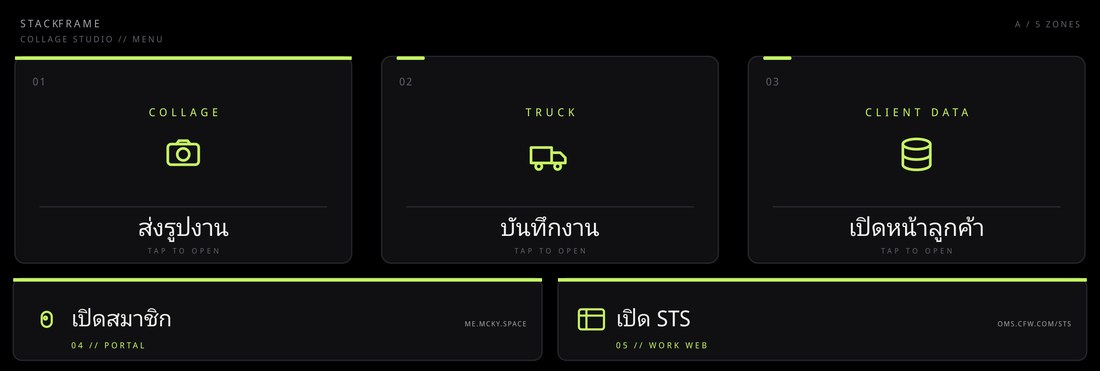
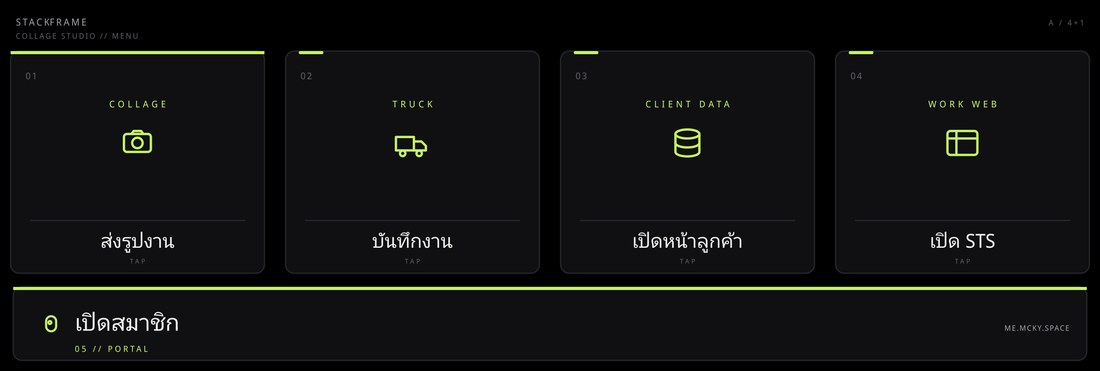
feat(richmenu): layout 4 top buttons + 1 full-width bottom bar
Top row: ส่งรูปงาน (LIFF) · บันทึกงาน (truck) · เปิดหน้าลูกค้า (data) ·
เปิด STS (oms.cfwenterprise.com/sts). Bottom full-width bar: เปิดสมาชิก
(me.mcky.space). Black backgrounds everywhere; redeployed STUDIO 03.

diff --git a/frontend/previews/richmenu/index.html b/frontend/previews/richmenu/index.html
@@ -15,7 +15,7 @@
   footer code{background:#1e2129;padding:2px 6px;border-radius:6px}
 </style></head><body>
 <header><h1>Rich menu redesign · STACK<span style="color:var(--acc)">//</span>FRAME</h1>
-<p>4 concepts, 2500×843, black backgrounds. Tap areas identical in all: 3 ช่องบน (ส่งรูปงาน LIFF · บันทึกงาน truck · เปิดหน้าลูกค้า data) + แถบล่าง 2 ปุ่ม (เปิดสมาชิก → me.mcky.space · เปิด STS → oms.cfwenterprise.com/sts)</p></header>
+<p>4 concepts, 2500×843, black backgrounds. Tap areas identical in all: แถวบน 4 ปุ่ม (ส่งรูปงาน LIFF · บันทึกงาน truck · เปิดหน้าลูกค้า data · เปิด STS oms.cfwenterprise.com/sts) + แถวล่างเต็มความกว้าง 1 ปุ่ม (เปิดสมาชิก → me.mcky.space)</p></header>
 <div class="grid">
 <div class="card"><img src="a-studio-web.jpg" alt="STUDIO 03">
 <div class="meta"><b>STUDIO 03</b><span>WEB EDITION / LIME ON BLACK</span></div>
